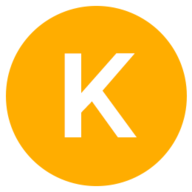
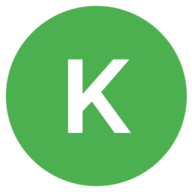
go back to green highlight color

diff --git a/source/stylesheets/global/_variables.scss b/source/stylesheets/global/_variables.scss
@@ -2,7 +2,7 @@ $footer_height: 60px;
 
 $black: #343531;
 $white: #ffffff;
-$highlight: #FFAD00;
+$highlight: #4CAF50;
 
 $max_xs: 800px;
 $min_sm: 801px;
